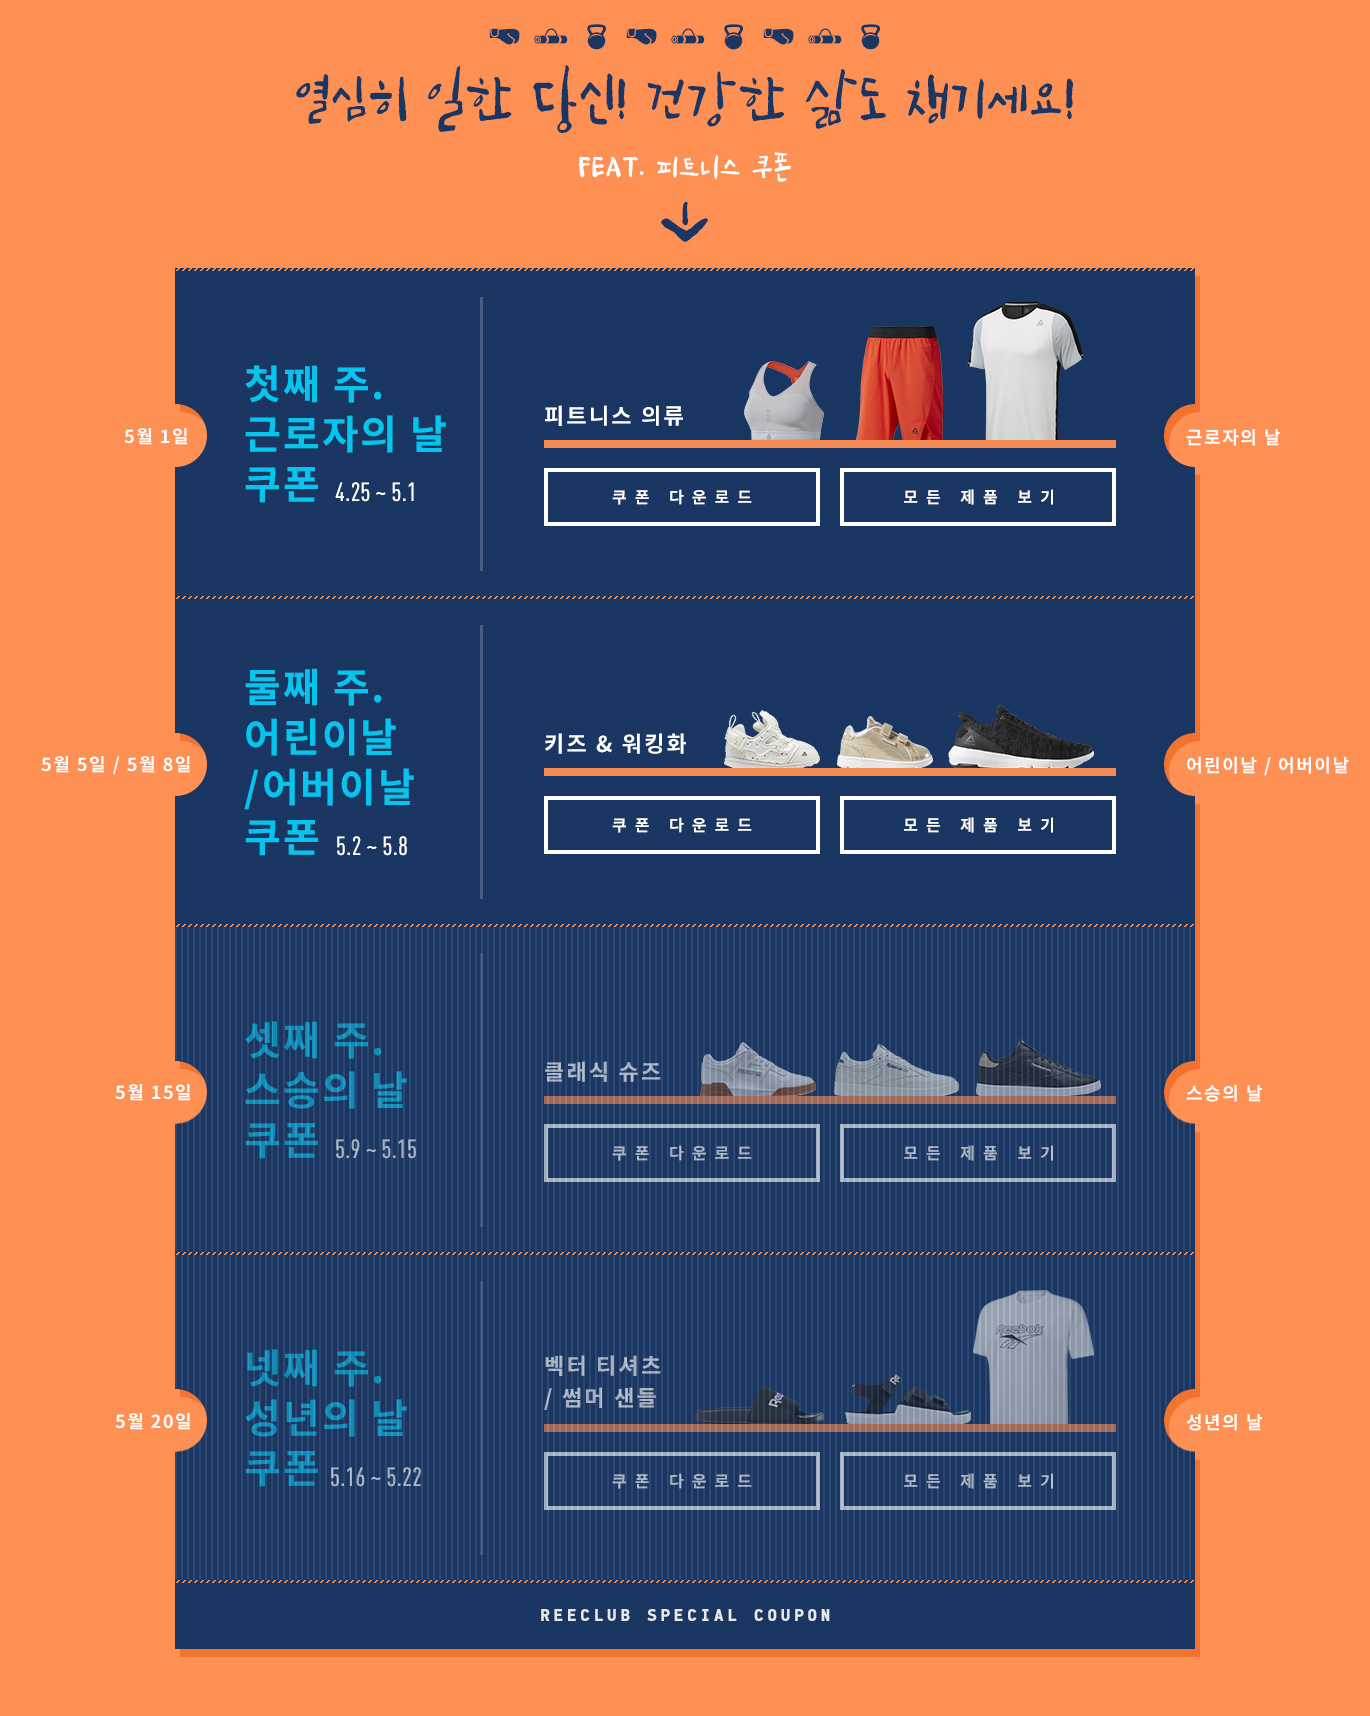
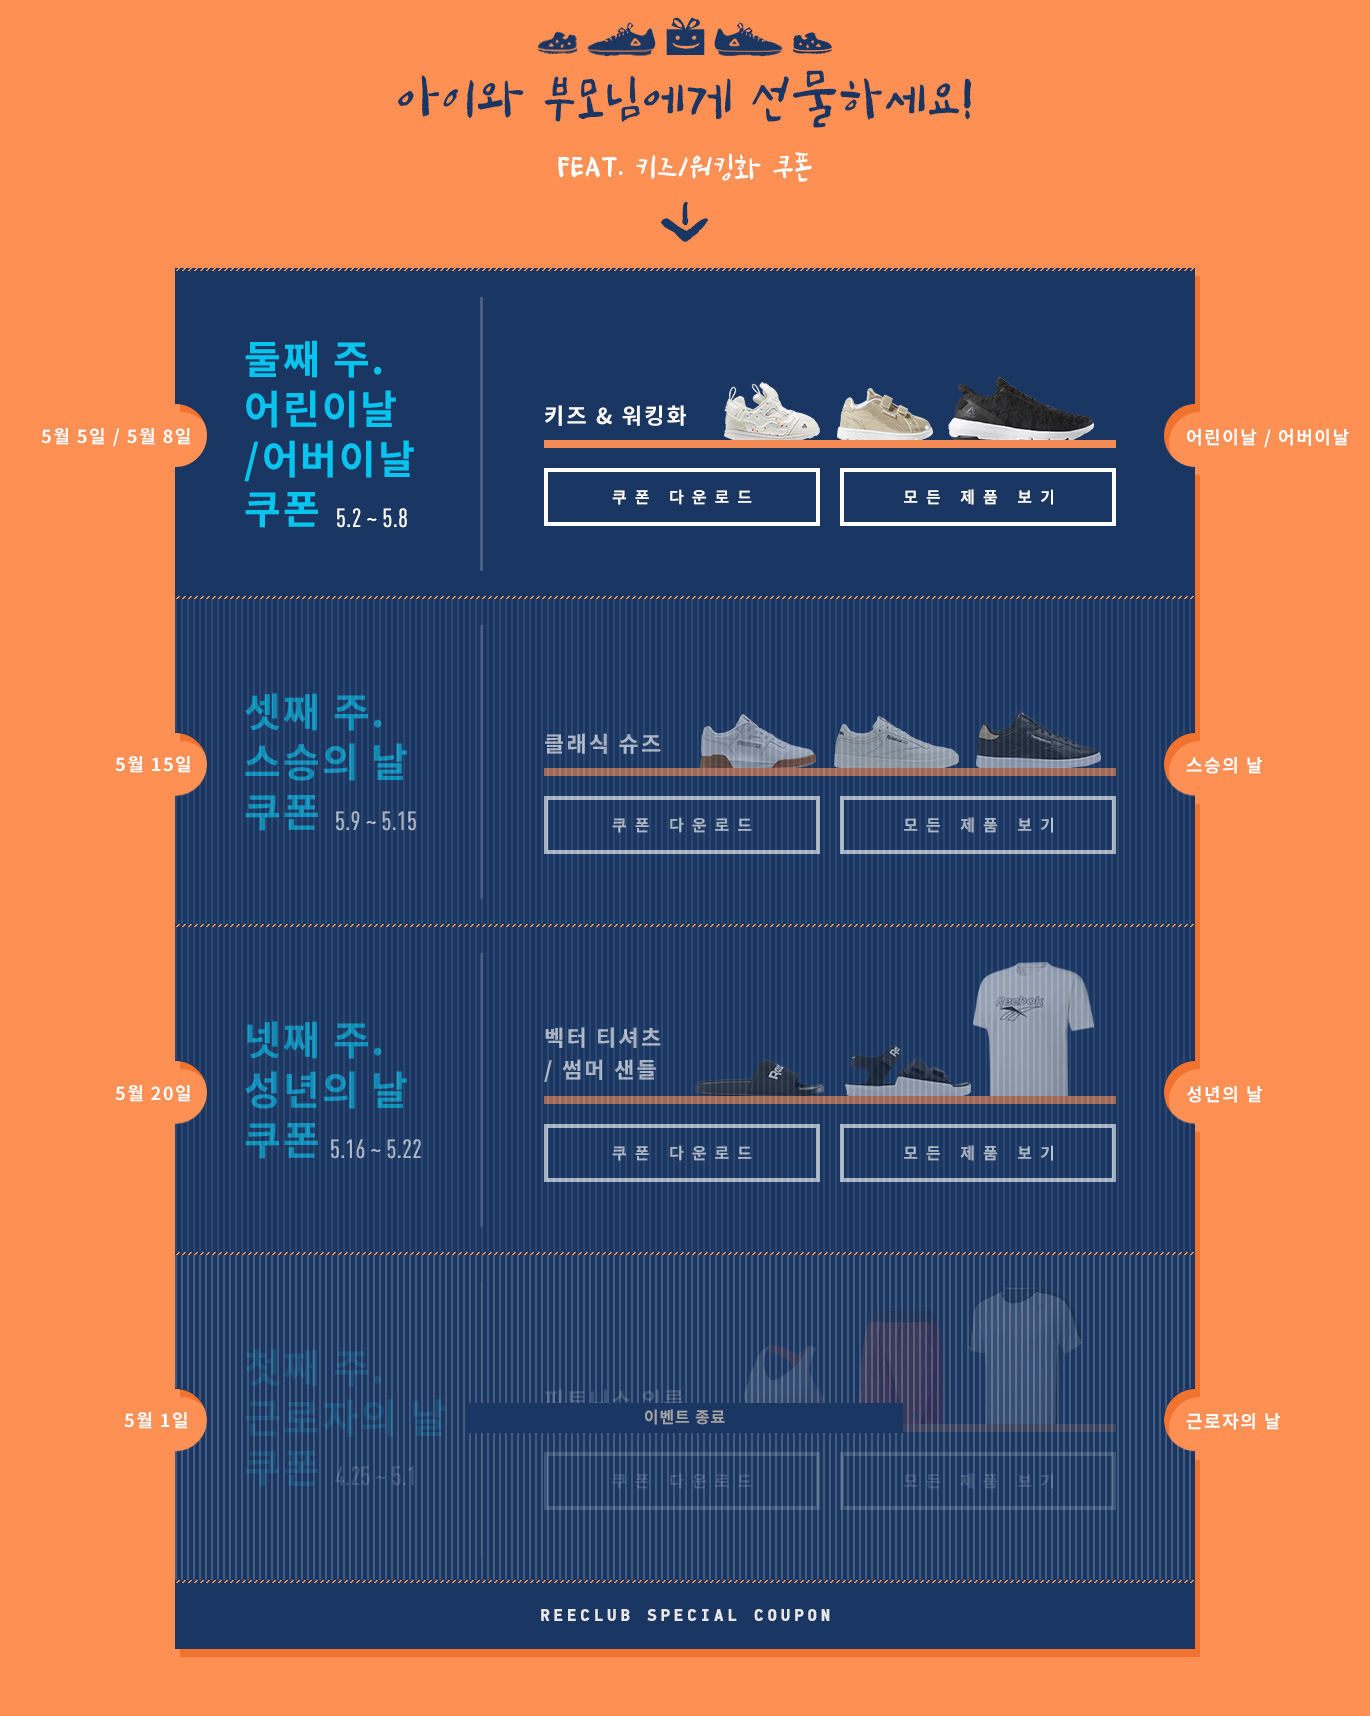
ree_CP_familyFest

diff --git a/front/html/reebok/html/pn/2019Family.html b/front/html/reebok/html/pn/2019Family.html
@@ -35,10 +35,10 @@
 												<div class="abs contents">
 													<img src="/images/reebok/2019/event/family/1904_contContainer_DT.jpg" alt=""  border="0" usemap="#map2">
 													<map id="map2" name="map2">
-														<area shape="rect" coords="547,467,822,525" href="http://shop.reebok.co.kr/RPF0701021.action?KEY=C1WKVLE22D" target="_blank" alt="쿠폰1" onfocus="blur()" />
-														<area shape="rect" coords="838,467,1118,531" href="http://shop.reebok.co.kr/RPF070801.action?pageNo=836" target="_blank" alt="모든 제품1" onfocus="blur()" />
-														<area shape="rect" coords="544,796,819,854" href="http://shop.reebok.co.kr/RPF0701021.action?KEY=B8GXS6OOT9" target="_blank" alt="쿠폰2" onfocus="blur()" />
-														<area shape="rect" coords="842,797,1117,855" href="http://shop.reebok.co.kr/RPF070801.action?pageNo=838" target="_blank" alt="모든 제품2" onfocus="blur()" />
+														<area shape="rect" coords="547,467,822,525" href="http://shop.reebok.co.kr/RPF0701021.action?KEY=B8GXS6OOT9" target="_blank" alt="쿠폰1" onfocus="blur()" />
+														<area shape="rect" coords="838,467,1118,531" href="http://shop.reebok.co.kr/RPF070801.action?pageNo=838" target="_blank" alt="모든 제품1" onfocus="blur()" />
+														<!-- <area shape="rect" coords="544,796,819,854" href="http://shop.reebok.co.kr/RPF0701021.action?KEY=B8GXS6OOT9" target="_blank" alt="쿠폰2" onfocus="blur()" />
+														<area shape="rect" coords="842,797,1117,855" href="http://shop.reebok.co.kr/RPF070801.action?pageNo=838" target="_blank" alt="모든 제품2" onfocus="blur()" /> -->
 														
 														<!-- 3주차
 														http://shop.reebok.co.kr/RPF0701021.action?KEY=90S94YLPKT
@@ -118,3 +118,4 @@
 								</div>
 								</div>
 								<!-- contents_wrap end-->
+				

diff --git a/front/html/reebok/2019/event/family/build/index.html b/front/html/reebok/2019/event/family/build/index.html
@@ -748,10 +748,10 @@
 								<div class="abs contents">
 									<img src="/images/reebok/2019/event/family/1904_contContainer_DT.jpg" alt=""  border="0" usemap="#map2">
 									<map id="map2" name="map2">
-										<area shape="rect" coords="547,467,822,525" href="http://shop.reebok.co.kr/RPF0701021.action?KEY=C1WKVLE22D" target="_blank" alt="쿠폰1" onfocus="blur()" />
-										<area shape="rect" coords="838,467,1118,531" href="http://shop.reebok.co.kr/RPF070801.action?pageNo=836" target="_blank" alt="모든 제품1" onfocus="blur()" />
-										<area shape="rect" coords="544,796,819,854" href="http://shop.reebok.co.kr/RPF0701021.action?KEY=B8GXS6OOT9" target="_blank" alt="쿠폰2" onfocus="blur()" />
-										<area shape="rect" coords="842,797,1117,855" href="http://shop.reebok.co.kr/RPF070801.action?pageNo=838" target="_blank" alt="모든 제품2" onfocus="blur()" />
+										<area shape="rect" coords="547,467,822,525" href="http://shop.reebok.co.kr/RPF0701021.action?KEY=B8GXS6OOT9" target="_blank" alt="쿠폰1" onfocus="blur()" />
+										<area shape="rect" coords="838,467,1118,531" href="http://shop.reebok.co.kr/RPF070801.action?pageNo=838" target="_blank" alt="모든 제품1" onfocus="blur()" />
+										<!-- <area shape="rect" coords="544,796,819,854" href="http://shop.reebok.co.kr/RPF0701021.action?KEY=B8GXS6OOT9" target="_blank" alt="쿠폰2" onfocus="blur()" />
+										<area shape="rect" coords="842,797,1117,855" href="http://shop.reebok.co.kr/RPF070801.action?pageNo=838" target="_blank" alt="모든 제품2" onfocus="blur()" /> -->
 										
 										<!-- 3주차
 										http://shop.reebok.co.kr/RPF0701021.action?KEY=90S94YLPKT

diff --git a/front/html/reebok/2019/event/family/index.html b/front/html/reebok/2019/event/family/index.html
@@ -746,10 +746,10 @@
 								<div class="abs contents">
 									<img src="/images/reebok/2019/event/family/1904_contContainer_DT.jpg" alt=""  border="0" usemap="#map2">
 									<map id="map2" name="map2">
-										<area shape="rect" coords="547,467,822,525" href="http://shop.reebok.co.kr/RPF0701021.action?KEY=C1WKVLE22D" target="_blank" alt="쿠폰1" onfocus="blur()" />
-										<area shape="rect" coords="838,467,1118,531" href="http://shop.reebok.co.kr/RPF070801.action?pageNo=836" target="_blank" alt="모든 제품1" onfocus="blur()" />
-										<area shape="rect" coords="544,796,819,854" href="http://shop.reebok.co.kr/RPF0701021.action?KEY=B8GXS6OOT9" target="_blank" alt="쿠폰2" onfocus="blur()" />
-										<area shape="rect" coords="842,797,1117,855" href="http://shop.reebok.co.kr/RPF070801.action?pageNo=838" target="_blank" alt="모든 제품2" onfocus="blur()" />
+										<area shape="rect" coords="547,467,822,525" href="http://shop.reebok.co.kr/RPF0701021.action?KEY=B8GXS6OOT9" target="_blank" alt="쿠폰1" onfocus="blur()" />
+										<area shape="rect" coords="838,467,1118,531" href="http://shop.reebok.co.kr/RPF070801.action?pageNo=838" target="_blank" alt="모든 제품1" onfocus="blur()" />
+										<!-- <area shape="rect" coords="544,796,819,854" href="http://shop.reebok.co.kr/RPF0701021.action?KEY=B8GXS6OOT9" target="_blank" alt="쿠폰2" onfocus="blur()" />
+										<area shape="rect" coords="842,797,1117,855" href="http://shop.reebok.co.kr/RPF070801.action?pageNo=838" target="_blank" alt="모든 제품2" onfocus="blur()" /> -->
 										
 										<!-- 3주차
 										http://shop.reebok.co.kr/RPF0701021.action?KEY=90S94YLPKT
